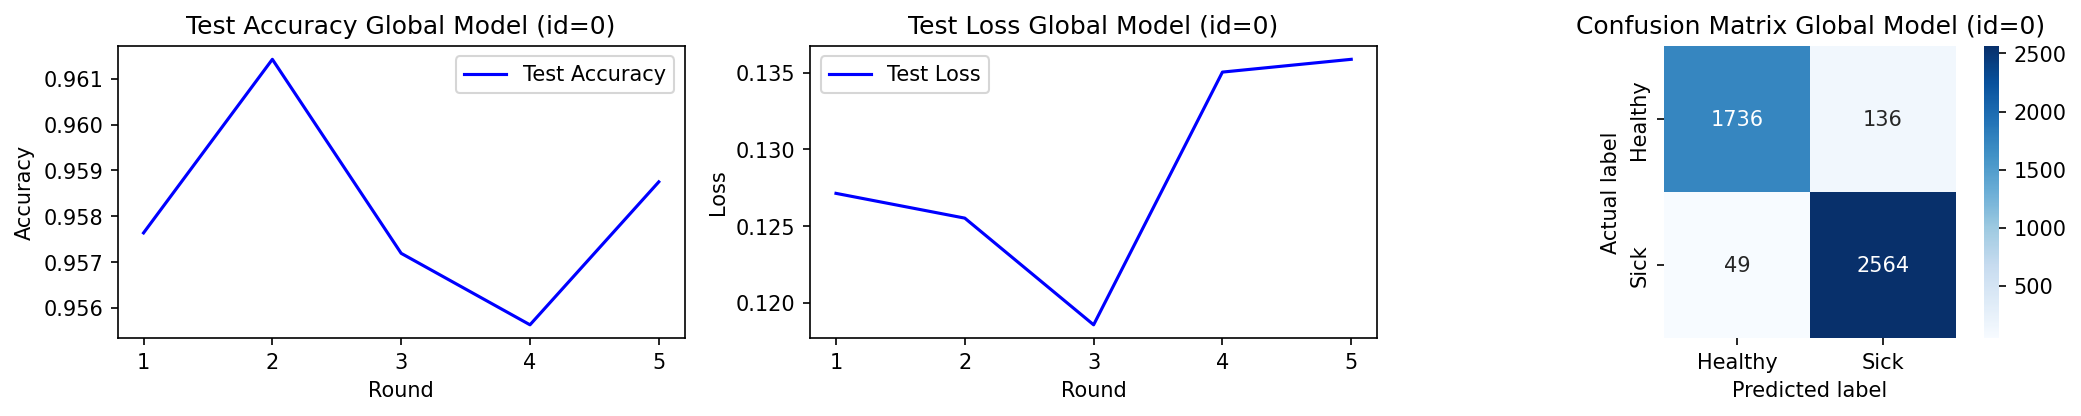
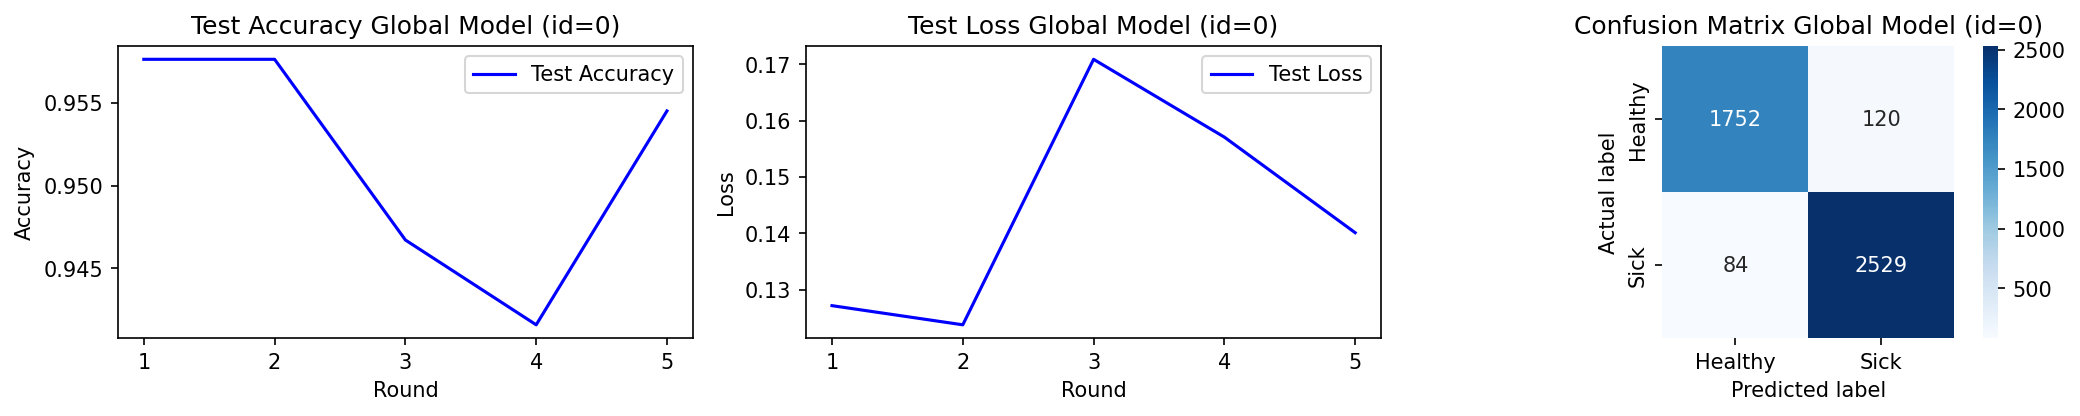
Exp4 OOD

diff --git a/project/main.py b/project/main.py
@@ -597,19 +597,297 @@ class Experiment3Simulation():
         return federated.run()
  
  
+class MixedOodDataset5:
+    """
+    Combined dataset for Experiment 4 local model (id=5).
+ 
+    Merges:
+      - Complete Balzheimer5100_poisoned (all 4 label-flipped directories)
+      - Lpneumonia5200 (NORMAL and PNEUMONIA directories appended after)
+ 
+    When used with dynamic indices [[0, balz_total], [balz_total, balz_total+750]],
+    the DataframeGenerator selects:
+      All Balzheimer5100_poisoned images  (~5121, complete poisoned OOD data)
+      First 750 Lpneumonia5200/NORMAL images (ID data, within 500–1000 range)
+ 
+    The directory scan order in DataframeGenerator is:
+      [0]  VeryMildDemented  → Healthy  (Balzheimer5100_poisoned)
+      [1]  MildDemented      → Healthy  (Balzheimer5100_poisoned)
+      [2]  ModerateDemented  → Healthy  (Balzheimer5100_poisoned)
+      [3]  NonDemented       → Sick     (Balzheimer5100_poisoned)
+      [4]  NORMAL            → Healthy  (Lpneumonia5200)
+      [5]  PNEUMONIA         → Sick     (Lpneumonia5200)
+    """
+    def __init__(self):
+        poisoned  = Balzheimer5100_poisoned()
+        pneumonia = Lpneumonia5200()
+        self.ID     = "MixedOodDataset5"
+        # Balzheimer dirs come first, then Lpneumonia dirs
+        self.paths  = poisoned.paths  + pneumonia.paths
+        self.labels = poisoned.labels + pneumonia.labels
+ 
+    def pre_processing(self, image):
+        return image
+ 
+ 
+class Experiment4Simulation():
+    """
+    3.4.4 Experiment 4: 4 ID local models + 1 mixed OOD local model.
+    OOD detection ENABLED.
+ 
+    Setup:
+      - Global model (id=0): loads pre-trained weights, tests on all 4 ID datasets.
+      - Local model  (id=1): Btumor4600()         — full ID dataset
+      - Local model  (id=2): Btumor3000()         — full ID dataset
+      - Local model  (id=3): Balzheimer5100()     — full ID dataset
+      - Local model  (id=4): Lpneumonia5200()     — full ID dataset
+      - Local model  (id=5): MixedOodDataset5()   — complete label-flipped
+                             Balzheimer5100_poisoned  +  750 samples from
+                             Lpneumonia5200 (500-1000 ID samples, OOD mix)
+ 
+    The mixed OOD client trains on BOTH poisoned (label-flipped) and legitimate
+    ID data in the same round.  OOD detection (HDFF cosine-similarity) should
+    still identify this client as OOD (similarity < 0.7) because the dominant
+    signal from the flipped labels corrupts its feature representation.
+ 
+    IMPORTANT: Run PreTrainingSimulation first to generate saved weights.
+    """
+    LOAD_ROUND = 35
+    SAVE_PATH  = "./.env/.saved/"
+ 
+    federated_config = ConfigFederated(
+        debug          = True,
+        save           = False,
+        load_round     = LOAD_ROUND,
+        load_reg       = True,
+        load           = True,
+        delete_on_load = False,
+        path           = SAVE_PATH,
+        rounds         = 5,
+        ood_round      = 1,                           # OOD detection active from round 1
+        clients        = 6,                           # global(0) + 4 ID locals + 1 mixed OOD
+        participants   = 5,                           # All 5 local clients participate each round
+        host_id        = 0,
+        client_to_dataset = [[0,1,2,3],[0],[1],[2],[3],[4]]
+        # global: all 4 ID datasets for evaluation
+        # local 1 → Btumor4600          (dataset idx 0)
+        # local 2 → Btumor3000          (dataset idx 1)
+        # local 3 → Balzheimer5100      (dataset idx 2)
+        # local 4 → Lpneumonia5200      (dataset idx 3)
+        # local 5 → MixedOodDataset5    (dataset idx 4)  ← mixed OOD
+    )
+    ood_config = ConfigOod(
+        debug               = True,
+        hdc_debug           = False,
+        enabled             = True,                   # OOD detection ENABLED
+        hyper_size          = int(1e4),
+        id_client           = [1, 2, 3, 4],           # Clean local clients
+        ood_client          = [5],                    # Mixed OOD client
+        ood_protection      = True,                   # Exclude detected OOD clients from FedAvg
+        ood_protection_thres= 0.7                     # Similarity < 0.7 → client is OOD
+    )
+    model_config = ConfigModel(
+        debug          = True,
+        epochs         = 1,
+        activation     = 'relu',
+        activation_out = 'softmax',
+        optimizer      = 'adam',
+        loss           = 'categorical_crossentropy'
+    )
+    dataset_config = ConfigDataset(
+        debug           = False,
+        batch_size      = 64,
+        image_size      = 256,
+        input_shape     = (256,256,1),
+        split           = 0.25,
+        number_of_classes = 2
+    )
+    plot_config = ConfigPlot(plot=False, path='./.env/plot', img_per_class=10)
+ 
+    def run(self):
+        import os
+ 
+        # ── Build mixed OOD dataset for local model 5 ───────────────────────
+        # MixedOodDataset5 stores Balzheimer5100_poisoned dirs first (indices 0..3)
+        # then Lpneumonia5200 dirs (indices 4..5).  We count the exact number of
+        # files in the Balzheimer portion so the index ranges precisely select:
+        #   ALL  Balzheimer5100_poisoned images   (complete poisoned data)
+        #   750  Lpneumonia5200/NORMAL   images   (ID data, in 500–1000 range)
+        mixed_ds = MixedOodDataset5()
+ 
+        balz_total = sum(
+            len([f for f in os.listdir(d)
+                 if os.path.isfile(os.path.join(d, f))])
+            for dir_list in mixed_ds.paths[:4]   # first 4 entries = Balzheimer5100_poisoned
+            for d in dir_list
+        )
+        PNEUMONIA_SUBSET = 750   # 500–1000 ID samples from Lpneumonia5200/NORMAL
+        mixed_indices = [
+            [0,            balz_total],                      # all Balzheimer5100_poisoned
+            [balz_total,   balz_total + PNEUMONIA_SUBSET],   # 750 Lpneumonia5200 NORMAL
+        ]
+        print(f"[Exp4] Balzheimer5100_poisoned file count : {balz_total}")
+        print(f"[Exp4] Mixed OOD dataset indices          : {mixed_indices}")
+ 
+        # ── Model & datasets ────────────────────────────────────────────────
+        m = Model(
+            model_config   = self.model_config,
+            dataset_config = self.dataset_config,
+            plot_config    = self.plot_config
+        )
+        dataset = Dataset(
+            [
+                (Btumor4600().ID,    Btumor4600(),    []),              # idx 0  (ID)
+                (Btumor3000().ID,    Btumor3000(),    []),              # idx 1  (ID)
+                (Balzheimer5100().ID, Balzheimer5100(), []),            # idx 2  (ID)
+                (Lpneumonia5200().ID, Lpneumonia5200(), []),            # idx 3  (ID)
+                (mixed_ds.ID, mixed_ds, mixed_indices),                # idx 4  (OOD: mixed)
+            ],
+            dataset_config = self.dataset_config,
+            plot_config    = self.plot_config
+        )
+ 
+        # ── Federated simulation ─────────────────────────────────────────────
+        federated = Federated(
+            dataset          = dataset,
+            model            = m,
+            federated_config = self.federated_config,
+            ood_config       = self.ood_config,
+            dataset_config   = self.dataset_config,
+            plot_config      = self.plot_config
+        )
+        return federated.run()
+ 
+ 
+class Experiment5Simulation():
+    """
+    3.4.5 Experiment 5: 4 ID local models + 1 new OOD local model (Afaces16000).
+    OOD detection ENABLED.
+ 
+    Setup:
+      - Global model (id=0): loads pre-trained weights, tests on all 4 ID datasets.
+      - Local model  (id=1): Btumor4600()    — full ID dataset (brain tumour MRI)
+      - Local model  (id=2): Btumor3000()    — full ID dataset (brain tumour MRI)
+      - Local model  (id=3): Balzheimer5100()— full ID dataset (Alzheimer MRI)
+      - Local model  (id=4): Lpneumonia5200()— full ID dataset (chest X-ray)
+      - Local model  (id=5): Afaces16000()   — TRUE OOD: animal face photographs
+                             (cat → Healthy, dog → Sick)
+ 
+    Afaces16000 is the most extreme OOD scenario: colour photographs of animal
+    faces are completely outside the medical-imaging domain that the global model
+    was pre-trained on.  No label flipping is needed — the feature distribution
+    itself is radically different.
+ 
+    Expected outcome:
+      - Local model 5 should produce the LOWEST cosine similarity scores of all
+        experiments (feature bundles dominated by RGB animal-texture features vs
+        the global model's grayscale medical-imaging features).
+      - OOD detection trivially rejects model 5 every round (similarity << 0.7).
+      - Global model accuracy remains stable / improves across 5 rounds.
+ 
+    IMPORTANT: Run PreTrainingSimulation first to generate saved weights.
+    """
+    LOAD_ROUND = 35
+    SAVE_PATH  = "./.env/.saved/"
+ 
+    federated_config = ConfigFederated(
+        debug          = True,
+        save           = False,
+        load_round     = LOAD_ROUND,
+        load_reg       = True,
+        load           = True,
+        delete_on_load = False,
+        path           = SAVE_PATH,
+        rounds         = 5,
+        ood_round      = 1,                           # OOD detection active from round 1
+        clients        = 6,                           # global(0) + 4 ID locals + 1 true OOD
+        participants   = 5,                           # All 5 local clients participate each round
+        host_id        = 0,
+        client_to_dataset = [[0,1,2,3],[0],[1],[2],[3],[4]]
+        # global: all 4 ID datasets for evaluation
+        # local 1 → Btumor4600      (dataset idx 0)
+        # local 2 → Btumor3000      (dataset idx 1)
+        # local 3 → Balzheimer5100  (dataset idx 2)
+        # local 4 → Lpneumonia5200  (dataset idx 3)
+        # local 5 → Afaces16000     (dataset idx 4)  ← true OOD (animal faces)
+    )
+    ood_config = ConfigOod(
+        debug               = True,
+        hdc_debug           = False,
+        enabled             = True,                   # OOD detection ENABLED
+        hyper_size          = int(1e4),
+        id_client           = [1, 2, 3, 4],           # Clean local clients
+        ood_client          = [5],                    # True OOD client (animal faces)
+        ood_protection      = True,                   # Exclude detected OOD clients from FedAvg
+        ood_protection_thres= 0.7                     # Similarity < 0.7 → client is OOD
+    )
+    model_config = ConfigModel(
+        debug          = True,
+        epochs         = 1,
+        activation     = 'relu',
+        activation_out = 'softmax',
+        optimizer      = 'adam',
+        loss           = 'categorical_crossentropy'
+    )
+    dataset_config = ConfigDataset(
+        debug           = False,
+        batch_size      = 64,
+        image_size      = 256,
+        input_shape     = (256,256,1),
+        split           = 0.25,
+        number_of_classes = 2
+    )
+    plot_config = ConfigPlot(plot=False, path='./.env/plot', img_per_class=10)
+ 
+    def run(self):
+        m = Model(
+            model_config   = self.model_config,
+            dataset_config = self.dataset_config,
+            plot_config    = self.plot_config
+        )
+        dataset = Dataset(
+            [
+                (Btumor4600().ID,    Btumor4600(),    []),              # idx 0  (ID)
+                (Btumor3000().ID,    Btumor3000(),    []),              # idx 1  (ID)
+                (Balzheimer5100().ID, Balzheimer5100(), []),            # idx 2  (ID)
+                (Lpneumonia5200().ID, Lpneumonia5200(), []),            # idx 3  (ID)
+                (Afaces16000().ID,   Afaces16000(),   []),              # idx 4  (TRUE OOD)
+            ],
+            dataset_config = self.dataset_config,
+            plot_config    = self.plot_config
+        )
+        federated = Federated(
+            dataset          = dataset,
+            model            = m,
+            federated_config = self.federated_config,
+            ood_config       = self.ood_config,
+            dataset_config   = self.dataset_config,
+            plot_config      = self.plot_config
+        )
+        return federated.run()
+ 
+ 
 if __name__ == "__main__":
-    # ── Step 1: Pre-train (run once, then comment out) ──────────────────────
+    # ── Step 1: Pre-train (run once, then comment out) ──
     # sim_pretrain = PreTrainingSimulation()
     # sim_pretrain.run()
  
-    # ── Step 2: Experiment 1 — 1 OOD local model, OOD detection disabled ───
+    # ── Step 2: Experiment 1 — 1 OOD local model, OOD detection disabled ──
     # sim_exp1 = Experiment1Simulation()
     # sim_exp1.run()
  
-    # ── Step 3: Experiment 2 — 1 OOD local model, OOD detection ENABLED ────
+    # ── Step 3: Experiment 2 — 1 OOD local model, OOD detection ENABLED ──
     # sim_exp2 = Experiment2Simulation()
     # sim_exp2.run()
  
     # ── Step 4: Experiment 3 — 4 ID locals + 1 OOD local, OOD detection ENABLED ─
-    sim_exp3 = Experiment3Simulation()
-    sim_exp3.run()
+    # sim_exp3 = Experiment3Simulation()
+    # sim_exp3.run()
+ 
+    # ── Step 5: Experiment 4 — 4 ID locals + 1 MIXED OOD local, OOD detection ENABLED ─
+    # sim_exp4 = Experiment4Simulation()
+    # sim_exp4.run()
+ 
+    # ── Step 6: Experiment 5 — 4 ID locals + 1 TRUE OOD local (Afaces16000), OOD detection ENABLED ─
+    sim_exp5 = Experiment5Simulation()
+    sim_exp5.run()
